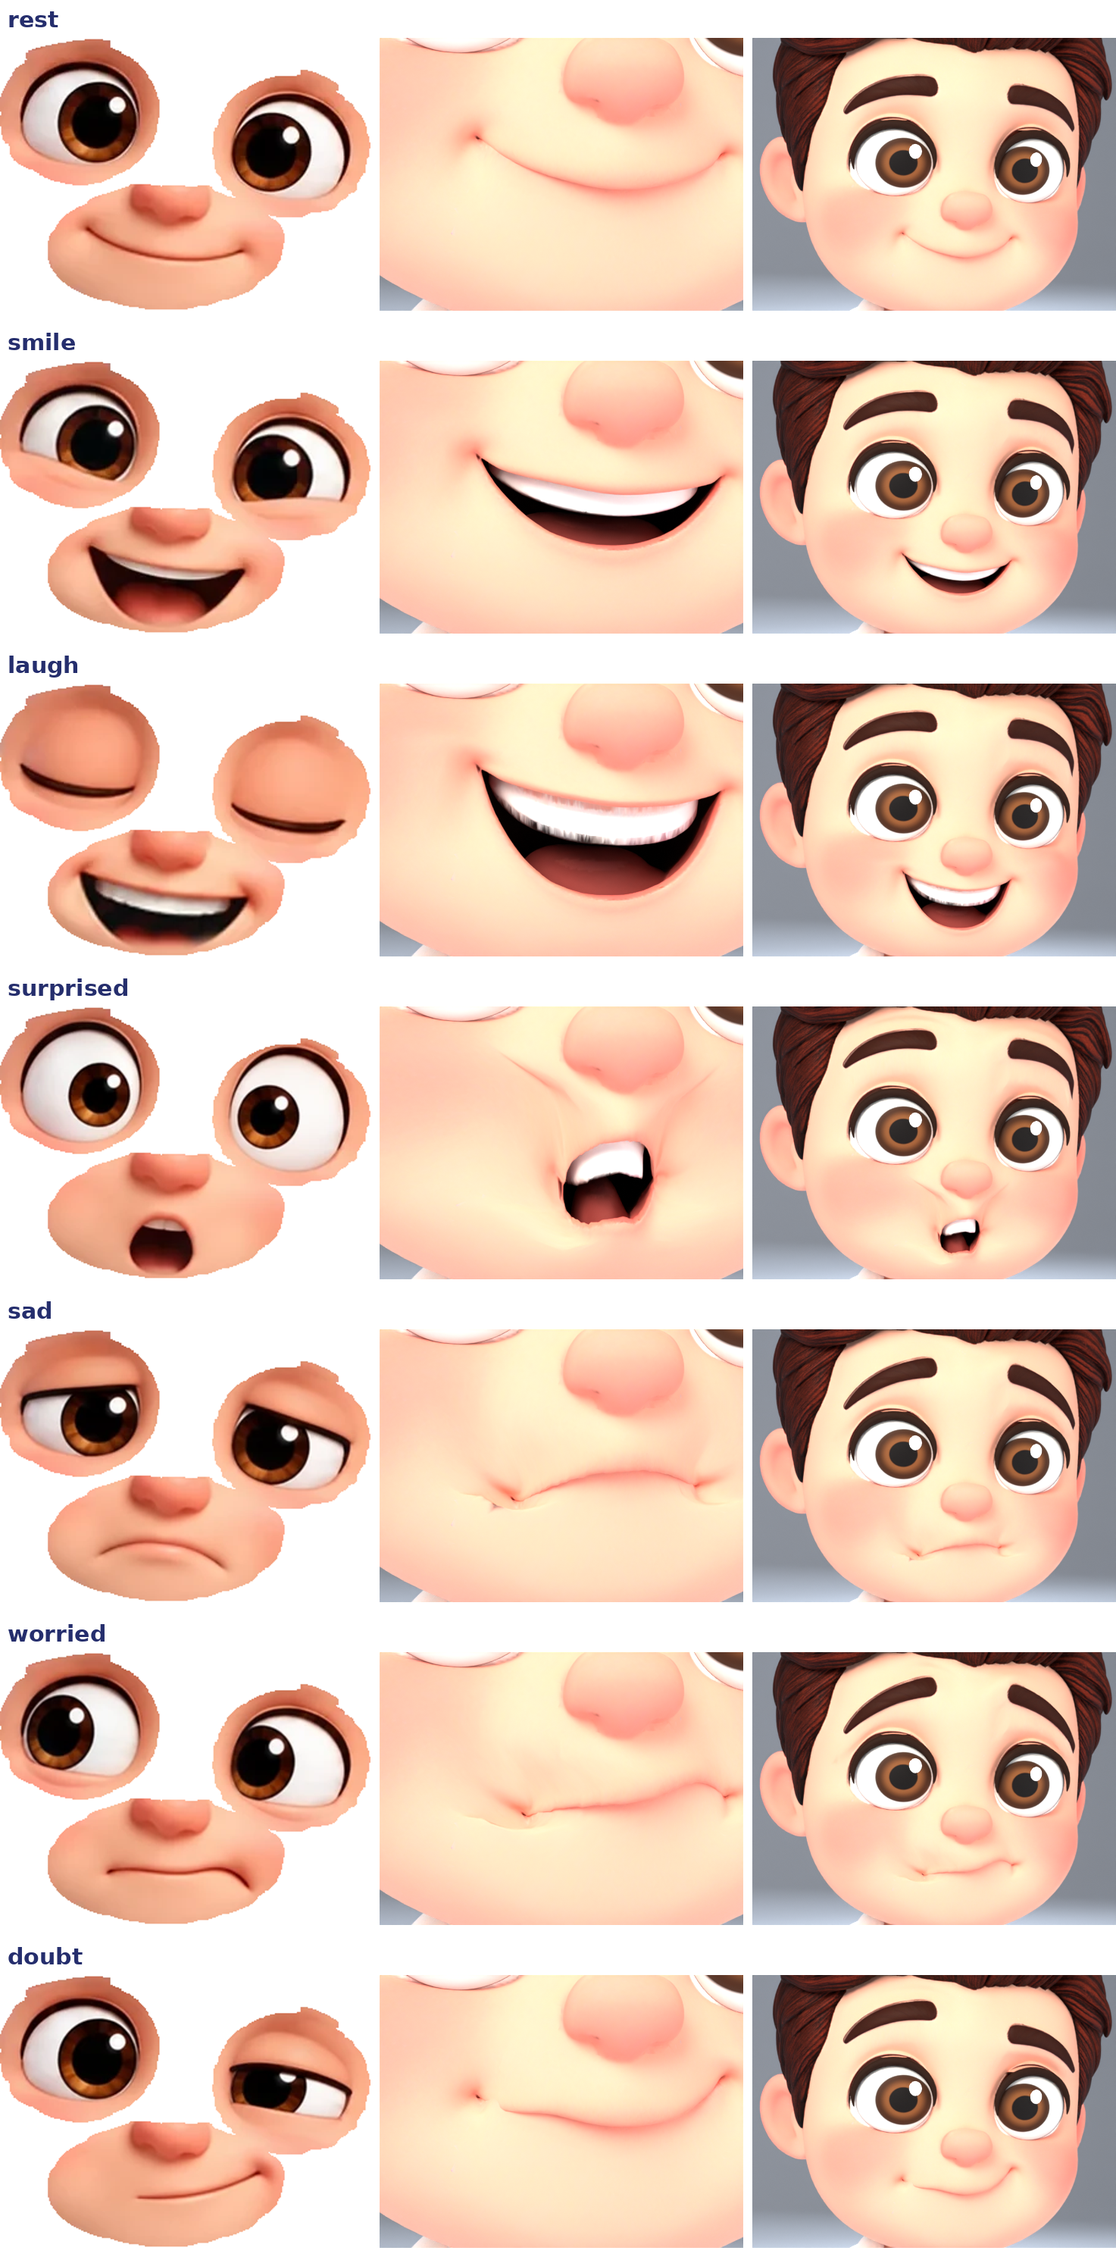
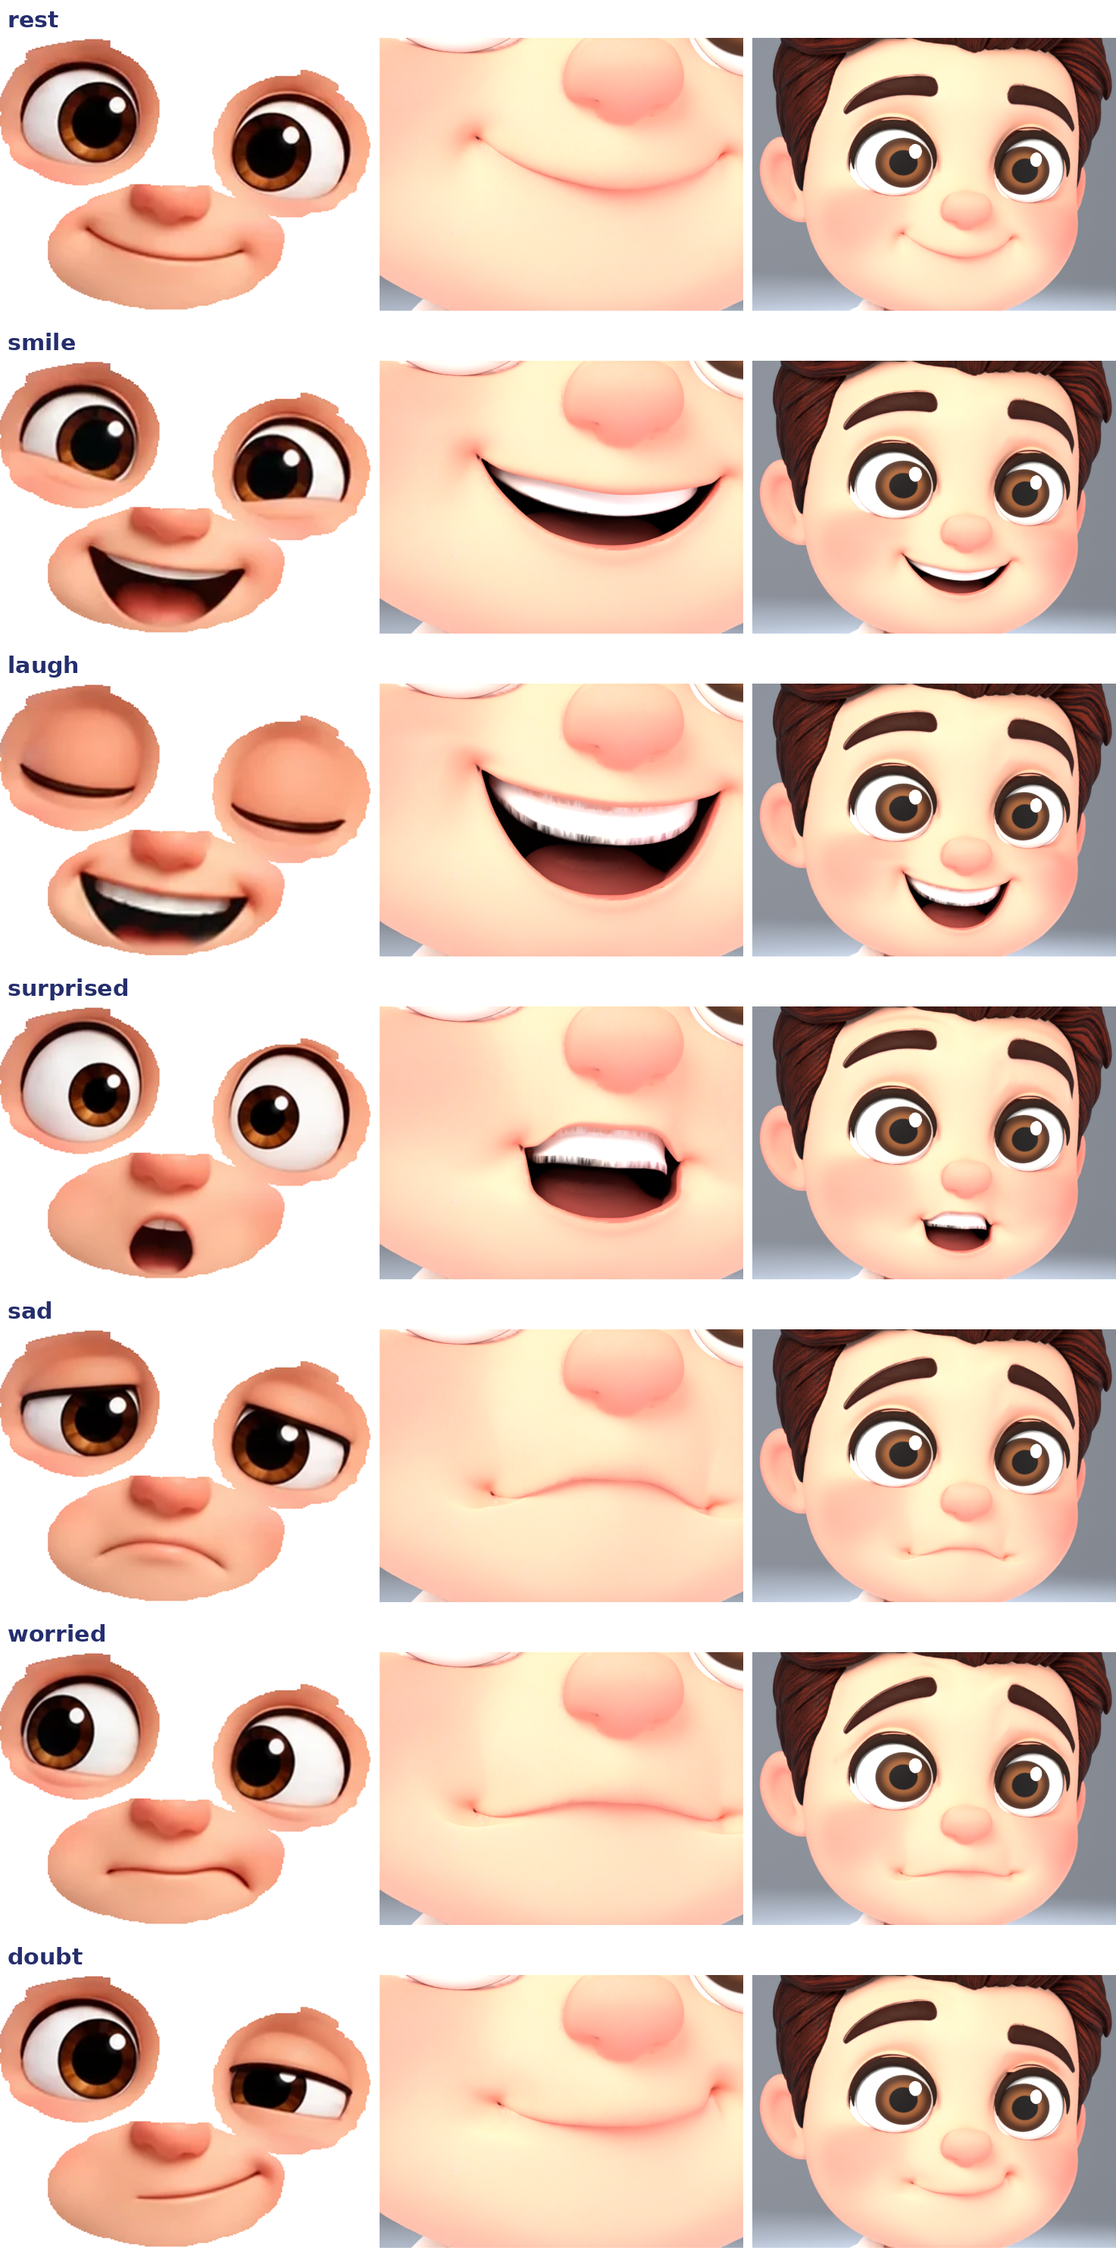
3D Dr. Smiley: mouths moved by the muscles a real face uses
Jose asked for mouth reactions the way a person makes them. tripo_muscles.py
adds blocks after FACS action units on his own surface (let the smile go,
corners down, lips stretched, one-sided dimple, chin pout; the jaw drop
already there), each corner move carrying the cheek with it. Surprised is a
relaxed open jaw, sad a frown with the chin pout, worried stretched lips,
doubt a dimple. out/plan-mouths.png with a muscle diagram, waiting on Jose's
OK. Docs only, no app change, so no User Guide change.

Claude-Session: https://claude.ai/code/session_011askx983Tm1ZdoDUiZZ1Y5

diff --git a/docs/mockups/smiley-3d/tripo_muscles.py b/docs/mockups/smiley-3d/tripo_muscles.py
@@ -1,0 +1,150 @@
+"""His mouth moved the way a person's moves (Jose, 2026-10-22: "study how a
+normal person makes mouth reactions"): building blocks after the Facial
+Action Coding System's action units (Ekman & Friesen; the emotion recipes as
+in Matsumoto & Ekman 2008, Scholarpedia "Facial expression analysis":
+happiness 6+12, sadness 1+4+15+17, surprise 1+2+5+25/26, fear
+1+2+4+5+7+20+25/26). Each is one muscle's pull on his own surface:
+
+  AU12off   SmileOff.L/R      his sculpted smile let go: corner in and down, the cheek with it
+  AU15      CornerDepress.L/R corner pulled down and a little out (depressor anguli oris)
+  AU17      ChinRaise         chin boss up, pushing the lower lip up and out: the pout
+  AU20      LipStretch.L/R    corner pulled straight back to the side (risorius)
+  AU14      Dimple.L/R        corner tightened in and back: the smirk's dimple
+  AU26      (Mouth.JawOpen)   the jaw drops, lips relaxed
+
+A mouth corner sits in a knot of muscle that drags a wide patch of cheek with
+it: every corner move here carries the cheek over ~4-5 cm, fading out, which
+is what kept the lips from creasing when pulled alone.
+
+  python3 tripo_muscles.py      -> keys in in/tripo-face.blend, out/plan/muscles-*.png
+"""
+import os, sys
+import numpy as np
+import bpy
+from PIL import Image, ImageDraw, ImageFont
+sys.path.insert(0, os.path.dirname(os.path.abspath(__file__)))
+import build
+from tripo_face import add_key, set_face, L, R
+from tripo_faceplan import smooth, shot, label
+
+HERE = os.path.dirname(os.path.abspath(__file__))
+TMP = os.path.join(HERE, 'in', 'faceplan')
+
+
+def side_fade(x, y, xm):
+    """Fades out toward the sides of his face, by how far out to the side, not by
+    depth: the mouth goes deep at its corners, and a fade by depth left the
+    inside of each corner half behind the lips, tearing it open into a slit."""
+    return (1 - smooth((np.abs(x - xm) - .085) / .03)) * (1 - smooth((y + .06) / .015))
+
+
+def corner_pull(co0, X, ZU, ZL, side, d, rx=.05, rz=.04, below=None, keep_middle=True):
+    """One mouth corner moved by d (dx outward, dy forward, dz up), the skin
+    round it following over an ellipse rx by rz (below: a different reach
+    under the corner). The middle of the mouth stays put."""
+    i = 0 if side == R else -1
+    cx, cz = X[i], (ZU[i] + ZL[i]) / 2
+    xm, hw = (X.min() + X.max()) / 2, (X.max() - X.min()) / 2
+    out = -1 if side == R else 1
+    x, y, z = co0.T
+    rzz = np.where(z < cz, below or rz, rz)
+    r = np.hypot((x - cx) / rx, (z - cz) / rzz)
+    ramp = np.clip((x - xm) * out / hw, 0, 1) ** .7               # 0 at the middle, 1 at the corner and past it
+    w = (1 - smooth(r)) * (ramp if keep_middle else 1) * ((x - xm) * out > 0)
+    w *= side_fade(x, y, xm)
+    co = co0.copy()
+    co[:, 0] += d[0] * out * w; co[:, 1] -= d[1] * w; co[:, 2] += d[2] * w
+    return co
+
+
+def chin_raise(co0, X, ZU, ZL, up=.006, fwd=.005):
+    """The chin muscle: the chin boss up, the lower lip pushed up and out."""
+    xm = (X.min() + X.max()) / 2
+    zl = float(np.interp(xm, X, ZL))
+    x, y, z = co0.T
+    r = np.hypot((x - xm) / .034, (z - (zl - .02)) / .03)
+    w = (1 - smooth(r)) * (z < zl + .004) * side_fade(x, y, xm)
+    co = co0.copy(); co[:, 2] += up * w; co[:, 1] -= fwd * w
+    return co
+
+
+def diagram(ob, X, ZU, ZL, CX):
+    """out/plan/muscles.png: his face at rest with each muscle's pull drawn on."""
+    from mathutils import Vector
+    from bpy_extras.object_utils import world_to_camera_view
+    build.STYLE_NOW = 'tripo'
+    cam = build.studio(); sc = bpy.context.scene; sc.camera = cam; sc.cycles.samples = 16
+    set_face(ob, close=1)
+    W, H = 900, 900
+    im = shot(os.path.join(TMP, 'muscles-base.png'), (CX, 0, .72), 1.05, 0, 3, (W, H))
+    dg = bpy.context.evaluated_depsgraph_get()
+    def P(x, z):
+        hit, loc, *_ = sc.ray_cast(dg, Vector((x, -1, z)), Vector((0, 1, 0)))
+        v = world_to_camera_view(sc, cam, loc if hit else Vector((x, -.15, z)))
+        return v.x * W, (1 - v.y) * H
+    g = ImageDraw.Draw(im); f = ImageFont.truetype('/usr/share/fonts/truetype/dejavu/DejaVuSans-Bold.ttf', 22)
+    def arrow(a, b, colour, text, side):
+        (x0, y0), (x1, y1) = P(*a), P(*b)
+        g.line((x0, y0, x1, y1), fill=colour, width=7)
+        import math
+        ang = math.atan2(y1 - y0, x1 - x0)
+        for da in (2.6, -2.6):
+            g.line((x1, y1, x1 + 22 * math.cos(ang + da), y1 + 22 * math.sin(ang + da)), fill=colour, width=7)
+        tw = g.textlength(text, font=f)
+        tx = x1 + 14 if side == 'r' else x1 - 14 - tw
+        g.rounded_rectangle((tx - 8, y1 - 18, tx + tw + 8, y1 + 18), 10, fill=colour)
+        g.text((tx, y1), text, font=f, fill='white', anchor='lm')
+    cl, cr = (X[0], (ZU[0] + ZL[0]) / 2 - .012), (X[-1], (ZU[-1] + ZL[-1]) / 2 - .012)
+    xm = (X.min() + X.max()) / 2
+    zl = float(np.interp(xm, X, ZL))
+    NAVY, CYAN, RED, GREEN, PURPLE = (37, 46, 109), (1, 140, 190), (194, 72, 92), (30, 140, 90), (120, 70, 160)
+    arrow(cr, (cr[0] + .03, cr[1] + .03), GREEN, 'smile (up, out)', 'r')
+    arrow(cr, (cr[0] + .035, cr[1] - .004), CYAN, 'stretch (sideways)', 'r')
+    arrow(cl, (cl[0] - .006, cl[1] - .03), RED, 'corners down (sad)', 'l')
+    arrow(cl, (cl[0] + .012, cl[1] + .004), PURPLE, 'dimple (doubt)', 'l')
+    arrow((xm, zl - .045), (xm, zl - .02), NAVY, 'chin up: pout (sad)', 'r')
+    arrow((xm + .02, zl - .05), (xm + .02, zl - .085), (90, 100, 120), 'jaw drops (surprise)', 'r')
+    im.save(os.path.join(HERE, 'out', 'plan', 'muscles.png'))
+
+
+if __name__ == '__main__':
+    bpy.ops.wm.open_mainfile(filepath=os.path.join(HERE, 'in', 'tripo-face.blend'))
+    ob = bpy.data.objects['Mesh_0']
+    kb = ob.data.shape_keys.key_blocks
+    for k in list(kb):
+        if k.name.startswith('AU.'):
+            ob.shape_key_remove(k)
+    co0 = np.array([v.co for v in kb['Basis'].data])
+    op = np.load(os.path.join(HERE, 'in', 'mouth-opening.npz'))
+    X, ZU, ZL, CX = op['X'], op['ZU'], op['ZL'], float(op['CX'])
+    for s in (L, R):
+        # his sculpt has a strong smile in it (corners 9-14 mm above the middle): letting it
+        # go has to bring them most of the way down before the other muscles read
+        # mostly down, only a little in: 20 mm in squeezed the lips ~40% and bunched them
+        add_key(ob, f'AU.SmileOff.{s}', corner_pull(co0, X, ZU, ZL, s, (-.009, 0, -.012)))
+        # the open mouth curves up harder at its corners: letting go there takes more
+        add_key(ob, f'AU.SmileOffOpen.{s}', corner_pull(co0, X, ZU, ZL, s, (-.018, 0, -.017)))
+        add_key(ob, f'AU.CornerDepress.{s}', corner_pull(co0, X, ZU, ZL, s, (.003, 0, -.015), rx=.042, rz=.018, below=.045))
+        add_key(ob, f'AU.LipStretch.{s}', corner_pull(co0, X, ZU, ZL, s, (.008, -.002, -.002), rx=.045, rz=.03))
+        add_key(ob, f'AU.Dimple.{s}', corner_pull(co0, X, ZU, ZL, s, (-.003, -.004, .001), rx=.016, rz=.014))
+    add_key(ob, 'AU.ChinRaise', chin_raise(co0, X, ZU, ZL))
+    # with the lips closed, letting go of the smile moves the line where they meet,
+    # both lips following it (fit_line): pulling closed lips sideways by the corners
+    # pushed a bump of lower lip up over the line near each corner
+    from tripo_mouths import fit_line
+    from tripo_mouthtest import UPPER, teeth_vertices
+    teeth = teeth_vertices(ob)
+    xm, hw = (X.min() + X.max()) / 2, (X.max() - X.min()) / 2
+    xs = np.linspace(X.min(), X.max(), 200)
+    u = (xs - xm) / hw
+    zc = np.interp(xs, X, ZU) - UPPER * (np.interp(xs, X, ZU) - np.interp(xs, X, ZL))
+    for s, side in ((L, xs > xm), (R, xs <= xm)):
+        k = np.where(side, 1, 0)
+        tx = xs - np.sign(u) * .009 * np.abs(u) * k
+        tz = zc - .012 * np.abs(u) ** 1.5 * k
+        add_key(ob, f'AU.Relax.{s}', fit_line(co0, X, ZU, ZL, teeth, (co0[:, 1] < -.08).astype(float), tx, tz))
+    bpy.ops.wm.save_as_mainfile(filepath=os.path.join(HERE, 'in', 'tripo-face.blend'))
+    from tripo_mouths import render_sheet
+    render_sheet(ob, CX)
+    diagram(ob, X, ZU, ZL, CX)
+    print('keys', [k.name for k in kb if k.name.startswith('AU.')])

diff --git a/docs/mockups/smiley-3d/tripo_mouths.py b/docs/mockups/smiley-3d/tripo_mouths.py
@@ -25,10 +25,16 @@ MOUTHS = {
     'rest':      dict(close=1),
     'smile':     dict(close=0, cheek=(.6, .6), brow=((2, 0), (2.4, 0))),
     'laugh':     dict(close=0, mouth={'JawOpen': 1, 'CornerUp.L': .6, 'CornerUp.R': .6}, cheek=(1, 1), brow=((2.8, 0), (3.4, 0))),
-    'surprised': dict(close=0, mouth={'Surprised': 1}, brow=((4.2, 0), (5, 0))),
-    'sad':       dict(close=1, mouth={'Sad': 1}, brow=((1, 11), (1.2, 13))),
-    'worried':   dict(close=1, mouth={'Worried': 1}, brow=((1.4, 15), (1.7, 18))),
-    'doubt':     dict(close=1, mouth={'CornerDown.R': .7, 'CornerUp.L': 1}, brow=((3, 4), (-1.2, 2.4))),
+    # after the muscles (tripo_muscles.py, Jose 2026-10-22: "how a normal person makes
+    # mouth reactions"): surprise is the jaw dropping with the lips let go (AU 26), not a
+    # pucker; sadness pulls the corners down (15) and the chin up into a pout (17);
+    # worry stretches the lips sideways (20); doubt dimples one corner (14)
+    'surprised': dict(close=0, mouth={'AU.SmileOffOpen.L': 1, 'AU.SmileOffOpen.R': 1, 'JawOpen': 1}, brow=((4.2, 0), (5, 0))),
+    'sad':       dict(close=1, mouth={'AU.Relax.L': 1, 'AU.Relax.R': 1, 'AU.CornerDepress.L': 1, 'AU.CornerDepress.R': 1,
+                                      'AU.ChinRaise': 1}, brow=((1, 11), (1.2, 13))),
+    'worried':   dict(close=1, mouth={'AU.Relax.L': 1, 'AU.Relax.R': 1, 'AU.LipStretch.L': 1, 'AU.LipStretch.R': 1,
+                                      'AU.CornerDepress.L': .5, 'AU.CornerDepress.R': .7}, brow=((1.4, 15), (1.7, 18))),
+    'doubt':     dict(close=1, mouth={'AU.Relax.R': 1, 'AU.Dimple.L': 1}, brow=((3, 4), (-1.2, 2.4))),
 }
 DRAWN = ['rest', 'blink1', 'blink2', 'shut', 'wink1', 'wink2', 'wink', 'smile1', 'smile2', 'smile', 'laugh1', 'laugh2', 'laugh',
          'laughB', 'lookL', 'lookR', 'love', 'sleep', 'halfL', 'halfR', 'lookU', 'lookD', 'lookUL', 'lookUR', 'lookDL', 'lookDR',
@@ -200,27 +206,31 @@ if __name__ == '__main__':
     xs, tops, bots = trace('surprised', X, ZU, ZL, UPPER)['open']
     add_key(ob, 'Mouth.Surprised', fit_open(co0, X, ZU, ZL, front, xs, tops, bots))
     bpy.ops.wm.save_as_mainfile(filepath=os.path.join(HERE, 'in', 'tripo-face.blend'))
-    # the sheet: each drawn mouth, then his, close up and the whole face
+    # the sheet: tripo_muscles.py draws it, once its keys are in
+
+
+def render_sheet(ob, CX, name='mouths.png'):
+    """Each drawn mouth, then his, close up and the whole face: out/plan/<name>."""
     build.STYLE_NOW = 'tripo'
     cam = build.studio(); sc = bpy.context.scene; sc.camera = cam
     sc.cycles.samples = int(os.environ.get('SAMPLES', 16))
     strip = Image.open(os.path.join(HERE, '..', '..', '..', 'drsmiley', 'face.webp')).convert('RGBA')
     rows = []
     f = ImageFont.truetype('/usr/share/fonts/truetype/dejavu/DejaVuSans-Bold.ttf', 30)
-    for name, ctl in MOUTHS.items():
+    for name_, ctl in MOUTHS.items():
         set_face(ob, **ctl)
-        close = shot(os.path.join(TMP, f'mo-{name}.png'), (CX, 0, .672), .5, -10, 2, (480, 360))
-        face = shot(os.path.join(TMP, f'mf-{name}.png'), (CX, 0, .74), .95, -12, 3, (480, 360))
-        k = DRAWN.index(name)
+        close = shot(os.path.join(TMP, f'mo-{name_}.png'), (CX, 0, .672), .5, -10, 2, (480, 360))
+        face = shot(os.path.join(TMP, f'mf-{name_}.png'), (CX, 0, .74), .95, -12, 3, (480, 360))
+        k = DRAWN.index(name_)
         m = strip.crop((k * 302, 0, k * 302 + 302, 222)); bg = Image.new('RGBA', m.size, (255, 255, 255, 255)); bg.alpha_composite(m)
         drawn = bg.convert('RGB').resize((302 * 360 // 222, 360))
         row = Image.new('RGB', (drawn.width + 480 * 2 + 24, 360 + 50), 'white')
-        ImageDraw.Draw(row).text((10, 8), name, font=f, fill=(37, 46, 109))
+        ImageDraw.Draw(row).text((10, 8), name_, font=f, fill=(37, 46, 109))
         row.paste(drawn, (0, 50)); row.paste(close, (drawn.width + 12, 50)); row.paste(face, (drawn.width + 492 + 12, 50))
         rows.append(row)
     sheet = Image.new('RGB', (rows[0].width, sum(r.height + 16 for r in rows)), 'white')
     y = 0
     for r in rows:
         sheet.paste(r, (0, y)); y += r.height + 16
-    sheet.save(os.path.join(HERE, 'out', 'plan', 'mouths.png'))
+    sheet.save(os.path.join(HERE, 'out', 'plan', name))
     print('done')

diff --git a/docs/mockups/smiley-3d/tripo_mouthboard.py b/docs/mockups/smiley-3d/tripo_mouthboard.py
@@ -7,13 +7,15 @@ from storyboard import O, fit, board
 sheet = Image.open(O('plan/mouths.png')).convert('RGB')
 h = sheet.height // 7
 rows = lambda ks: fit(Image.fromarray(__import__('numpy').vstack([__import__('numpy').asarray(sheet.crop((0, k * h, sheet.width, (k + 1) * h))) for k in ks])), 1000, 2000)
-board('His mouth shapes, traced from your drawings', ['Your drawing (left), his 3D mouth close up (middle) and', 'his whole face (right). Same brows as the app gives each face.'], [
-    ('1', 'ME', 'Rest, smile, laugh and doubt, as before: his own lips moving.',
-     [rows([0, 1, 2, 6])], 'rest, smile, laugh, doubt', False),
-    ('2', 'ME', 'Surprised, sad and worried, now traced from your drawings: your drawn face levelled (it is tilted 11\u00b0), '
-     'scaled so your resting mouth lands on his, and his lips fitted onto each outline. Sad is a real frown, worried has its '
-     'uneven ends, surprised is your O. The O still has soft folds beside the nose and is a little uneven inside; I can polish '
-     'that later.', [rows([3, 4, 5])], 'surprised, sad, worried', True),
-    ('3', 'NEXT', 'After your OK: the expression sheet (brows, eyes, mouth and cheeks together), six poses and a 360\u00b0 turn.',
-     [], '', False),
+diagram = fit(Image.open(O('plan/muscles.png')).convert('RGB').crop((0, 0, 900, 730)), 1000, 820)
+board('His mouth, moved like a real face', ['Each reaction is now made the way a person makes it: by', 'the muscles that do it, on his own face.'], [
+    ('1', 'ME', 'What real faces do (the Facial Action Coding System, Ekman and Friesen, the scientific catalogue of face '
+     'movements): surprise drops the jaw with the lips let go, no pucker; sadness pulls the corners down and the chin muscle '
+     'pushes the lower lip up into a pout; worry stretches the lips sideways; doubt dimples one corner; a mouth corner drags a '
+     'wide patch of cheek with it, which is why the old shapes creased.', [diagram], 'Which way each muscle pulls on his face', False),
+    ('2', 'ME', 'All seven, rebuilt that way: your drawing (left), his mouth close up, his whole face. Surprised is now a '
+     'relaxed open \u201coh\u201d, sad a frown with the chin pout, worried a stretched flat mouth, doubt a one-sided dimple.',
+     [rows([0, 1, 2, 3, 4, 5, 6])], '', True),
+    ('3', 'NEXT', 'After your OK: the expression sheet, where the eyes join in too (surprise opens them wider, a laugh '
+     'squints them, as real faces do), then six poses and a 360\u00b0 turn.', [], '', False),
 ], 'plan-mouths.png')

diff --git a/docs/mockups/smiley-3d/tripo_face.py b/docs/mockups/smiley-3d/tripo_face.py
@@ -84,7 +84,7 @@ def set_face(ob=None, brow=None, cheek=(0, 0), close=0, mouth=None, lids=True):
     for j, c in enumerate(CLOSE_STEPS, 1):
         kb[f'Mouth.Close{c:g}'].value = float(np.interp(close, pts, [float(k == j) for k in range(len(pts))]))
     for k, v in (mouth or {}).items():
-        kb['Mouth.' + k].value = v
+        kb[k if k.startswith('AU.') else 'Mouth.' + k].value = v      # AU.*: the muscle blocks (tripo_muscles.py)
     if lids:
         from tripo_eyes import set_blink
         for i, s in enumerate((R, L)):

diff --git a/docs/handoff.md b/docs/handoff.md
@@ -8,8 +8,8 @@ and the mouth test for the 3D Dr. Smiley on Jose's Tripo model (PR #114, branch 
 
 > Read `AGENTS.md`, `CLAUDE.md`, `docs/PLAN.md` and `docs/handoff.md`. Then
 > continue the 3D Dr. Smiley on branch `claude/3d-dr-smiley-r1-avn9y1`: I'll
-> attach the zip of my Tripo model; rebuild it (with the face rig), then
-> show me the expression sheet (brows, eyes, mouth, cheeks together). Plain words, say "working on
+> attach the zip of my Tripo model; rebuild it (with the face rig: tripo_face.py,
+> tripo_mouths.py, tripo_muscles.py), then show me the expression sheet (brows, eyes, mouth, cheeks together). Plain words, say "working on
 > it" and "done".
 
 ## Jose's standing rule for this work (in `AGENTS.md`)
@@ -83,13 +83,18 @@ expressions as mixes. Shown: `out/plan-mouths.png`. Good: rest, smile,
 laugh, doubt. Not yet: surprised (leans, creases above the lip), sad and
 worried (flat, not a frown).
 
-1. **Done, waiting on Jose's OK:** surprised, sad and worried traced from
-   his drawings (Jose's pick): `tripo_trace.py` levels the drawn face (11
-   degree tilt), maps the drawn rest mouth onto the 3D one, and
-   `fit_line()` / `fit_open()` in `tripo_mouths.py` fit his lips to each
-   outline (keys `Mouth.Sad`, `Mouth.Worried`, `Mouth.Surprised`). Shown:
-   `out/plan-mouths.png`. Known: the O has soft folds by the nose and is a
-   little uneven inside (teeth one side).
+1. **Done, waiting on Jose's OK:** after the traced mouths Jose asked
+   for mouths that move "how a normal person makes mouth reactions".
+   `tripo_muscles.py` adds muscle blocks after FACS action units (keys
+   `AU.*`: SmileOff/SmileOffOpen, Relax (closed lips, via `fit_line`),
+   CornerDepress, LipStretch, Dimple, ChinRaise; recipes from Matsumoto &
+   Ekman 2008 as quoted by secondary sources: the primary PDFs are blocked
+   from the cloud session), `MOUTHS` in `tripo_mouths.py` mixes them, and
+   `render_sheet()` + `diagram()` draw `out/plan/mouths.png` and
+   `out/plan/muscles.png`; page `out/plan-mouths.png`. Lessons: a corner
+   move must carry the cheek (~4-5 cm); fade by distance to the side, not
+   by depth (the mouth is deep at its corners); move closed lips sideways
+   only through their meeting line (`fit_line`), never by pulling corners.
 2. Then the expression sheet (brows + eyes + mouth + cheeks), six poses,
    a 360-degree turn: stop for his OK.
 3. Then the animation (R2), as a visual plan first.
